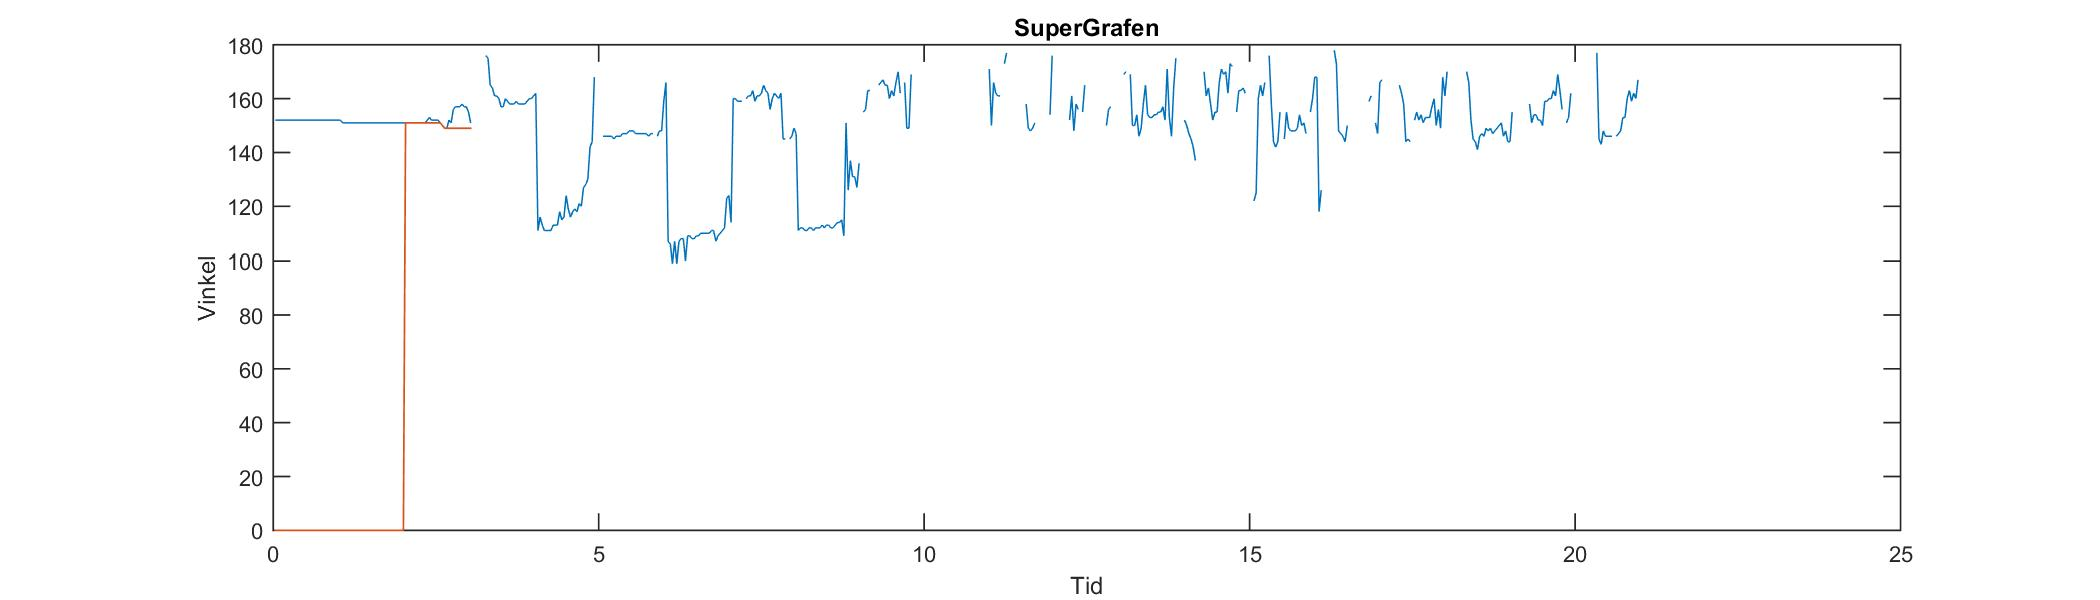
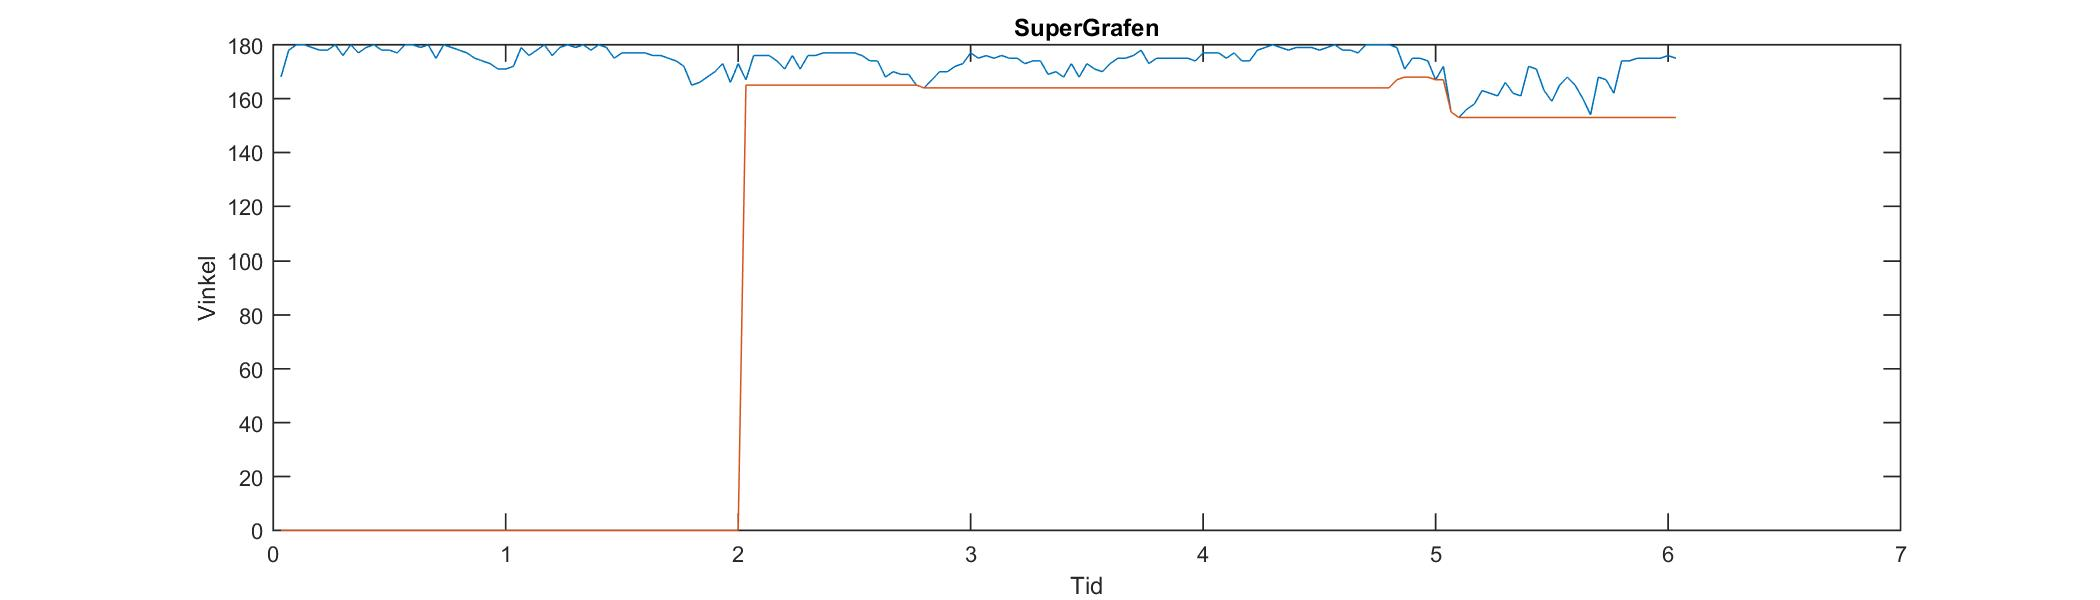
Förändringar i hastigheten

diff --git a/RoadRunners/SkeletonBasics-WPF/MainWindow.xaml b/RoadRunners/SkeletonBasics-WPF/MainWindow.xaml
@@ -27,7 +27,21 @@
         <Button x:Name="button1" Content="Start sensors" HorizontalAlignment="Left" Margin="867,77,0,0" VerticalAlignment="Top" Width="75" Click="start_button_Click"/>
         <Button x:Name="Show_mean_angle" Content="Show mean angle" HorizontalAlignment="Left" Margin="1009,77,0,0" VerticalAlignment="Top" Width="111" Click="Show_mean_angle_Click"/>
         <Image x:Name="vinkelImage" HorizontalAlignment="Left" Height="319" Margin="44,297,0,0" VerticalAlignment="Top" Width="1169" Source="Vinkelgraf.jpeg" />
-        <TextBlock x:Name="velocityText" HorizontalAlignment="Left" Margin="942,195,0,0" TextWrapping="Wrap" Text="TextBlock" VerticalAlignment="Top" Height="47" Width="100"/>
+        <TextBlock x:Name="velocityText" HorizontalAlignment="Left" Margin="942,195,0,0" TextWrapping="Wrap" VerticalAlignment="Top" Height="20" Width="87"><Run Text="Hastighet"/><InlineUIContainer>
+        		<TextBlock x:Name="textBlock" TextWrapping="Wrap"/>
+        	</InlineUIContainer><LineBreak/></TextBlock>
+        <TextBlock x:Name="countertext" HorizontalAlignment="Left" Margin="1091,195,0,0" TextWrapping="Wrap" VerticalAlignment="Top" Height="20"><Run Text="Counter"/><LineBreak/><Run/></TextBlock>
+        <TextBlock x:Name="velXListtext" HorizontalAlignment="Left" Margin="1091,256,0,0" TextWrapping="Wrap" VerticalAlignment="Top" Width="64" Height="19"><Run Text="velXList"/><LineBreak/><Run/><LineBreak/><Run/></TextBlock>
+        <TextBlock x:Name="steptimetext" HorizontalAlignment="Left" Margin="1091,158,0,0" TextWrapping="Wrap" VerticalAlignment="Top"><Run Text="stepTime"/><LineBreak/><Run/></TextBlock>
+        <TextBlock x:Name="initX" HorizontalAlignment="Left" Margin="942,259,0,0" TextWrapping="Wrap" VerticalAlignment="Top"><Run Text="init"/><Run Text="X"/></TextBlock>
+        <TextBlock x:Name="textBlock1" HorizontalAlignment="Left" Margin="942,179,0,0" TextWrapping="Wrap" Text="Hastigheten" VerticalAlignment="Top"/>
+        <TextBlock x:Name="textBlock1_Copy" HorizontalAlignment="Left" Margin="942,243,0,0" TextWrapping="Wrap" VerticalAlignment="Top"><Run Text="Initiala x-koord"/><LineBreak/><Run/></TextBlock>
+        <TextBlock x:Name="textBlock1_Copy1" HorizontalAlignment="Left" Margin="1091,240,0,0" TextWrapping="Wrap" VerticalAlignment="Top"><Run Text="Storlek x-koord. lista"/><LineBreak/><Run/></TextBlock>
+        <TextBlock x:Name="textBlock1_Copy2" HorizontalAlignment="Left" Margin="1091,179,0,0" TextWrapping="Wrap" VerticalAlignment="Top"><Run Text="Counter"/><LineBreak/><Run/></TextBlock>
+        <TextBlock x:Name="textBlock1_Copy3" HorizontalAlignment="Left" Margin="1091,142,0,0" TextWrapping="Wrap" VerticalAlignment="Top"><Run Text="Tiden för ett steg"/><LineBreak/><Run/></TextBlock>
+        <TextBlock x:Name="velhelptext" HorizontalAlignment="Left" Margin="942,158,0,0" TextWrapping="Wrap" VerticalAlignment="Top" Height="21"><Run Text="VelHelp"/><LineBreak/><Run/></TextBlock>
+        <TextBlock x:Name="textBlock2" HorizontalAlignment="Left" Margin="942,142,0,0" TextWrapping="Wrap" VerticalAlignment="Top"><Run Text=""/><LineBreak/><Run/></TextBlock>
+        <TextBlock x:Name="hastighetslista" HorizontalAlignment="Left" Margin="942,137,0,0" TextWrapping="Wrap" VerticalAlignment="Top" Height="21"><Run Text="Hastighetslista"/><LineBreak/><Run/></TextBlock>
 
     </Grid>
 </Window>

diff --git a/RoadRunners/SkeletonBasics-WPF/MainWindow.xaml.cs b/RoadRunners/SkeletonBasics-WPF/MainWindow.xaml.cs
@@ -202,7 +202,9 @@ namespace Microsoft.Samples.Kinect.SkeletonBasics
 
                         if (skel.TrackingState == SkeletonTrackingState.Tracked)
                         {
-                            this.DrawBonesAndJoints(skel, dc);
+                            //this.DrawBonesAndJoints(skel, dc);
+                            Console.WriteLine("Innan calcvelocity");
+                            this.CalculateVelocity(skel, dc);
                             Console.WriteLine("HEJ");
                         }
                         else if (skel.TrackingState == SkeletonTrackingState.PositionOnly)
@@ -353,13 +355,13 @@ namespace Microsoft.Samples.Kinect.SkeletonBasics
         List<double> velHelpList = new List<double>();
         List<double> velocityList = new List<double>();
 
+        int count1 = 0;
+
         // Beräkna hastigheten 
         // Håll listan till 600 värden
         // När jag hittar vändpunkt så tömmer jag listan 
-        private void CalculateVelocity(Skeleton skeleton)
+        private void CalculateVelocity(Skeleton skeleton, DrawingContext drawingContext)
         {
-            Console.WriteLine("HEAEJFOANVEA");
-
             //Koordinater för fot
             Joint footLeft = skeleton.Joints[JointType.FootLeft];
             float XFootleft;
@@ -367,62 +369,90 @@ namespace Microsoft.Samples.Kinect.SkeletonBasics
             XFootleft = footLeft.Position.X;
             YFootleft = footLeft.Position.Y;
 
-            Console.WriteLine(velXList.Count());
+            ++count1;
+            if (count1 == 600)
+            {
+                count1 = 0;
+            }
 
             //Lägger till x-koordinater i listan
             if (velXList.Count > 10)
+            {
+                velXList.Add(XFootleft);
+
+                if (velXList.Count < 399)
                 {
-                   Console.WriteLine("HEAEJFOANVEA");
-                   if (velXList.Count < 399)
-                   {
-                       velXList.Add(XFootleft);
 
-                // Kollar om ett värde är en topp genom att jämföra ett värden före sig och ett värde efter sig
-                if (((velXList[velXList.Count - 5] < (velXList[velXList.Count - 4] + velXList[velXList.Count - 3] + velXList[velXList.Count - 2] + velXList[velXList.Count - 1] / 4))
-                    &&
-                    (velXList[velXList.Count - 5] < (velXList[velXList.Count - 6] + velXList[velXList.Count - 7] + velXList[velXList.Count - 8] + velXList[velXList.Count - 9] / 4)))
-                    ||
-                   ((velXList[velXList.Count - 5] > (velXList[velXList.Count - 4] + velXList[velXList.Count - 3] + velXList[velXList.Count - 2] + velXList[velXList.Count - 1] / 4))
-                    &&
-                    (velXList[velXList.Count - 5] > (velXList[velXList.Count - 6] + velXList[velXList.Count - 7] + velXList[velXList.Count - 8] + velXList[velXList.Count - 9] / 4))))
-                {
-                    // Deltatid
-                    stepTime = velHelpList.Count / 30;
-                    stepVelocity = sumStep / stepTime;
-                    Console.WriteLine("HEAEJFOANVEA");
+                    // Kollar om ett värde är en topp genom att jämföra ett värden före sig och ett värde efter sig
+                    if (((velXList[velXList.Count - 5] < ((velXList[velXList.Count - 4] + velXList[velXList.Count - 3] + velXList[velXList.Count - 2] + velXList[velXList.Count - 1]) / 4))
+                        &&
+                        (velXList[velXList.Count - 5] < ((velXList[velXList.Count - 6] + velXList[velXList.Count - 7] + velXList[velXList.Count - 8] + velXList[velXList.Count - 9]) / 4)))
+                        ||
+                       ((velXList[velXList.Count - 5] > ((velXList[velXList.Count - 4] + velXList[velXList.Count - 3] + velXList[velXList.Count - 2] + velXList[velXList.Count - 1]) / 4))
+                        &&
+                        (velXList[velXList.Count - 5] > ((velXList[velXList.Count - 6] + velXList[velXList.Count - 7] + velXList[velXList.Count - 8] + velXList[velXList.Count - 9]) / 4))))
+                    {
+                        //Counterräknare
+                        countertext.Text = Convert.ToString(count1);
 
-                    // Hastighetslista
-                    velocityList.Add(stepVelocity);
-                    meanHelpVelocity = meanHelpVelocity + stepVelocity;
-                    meanVelocity = velocityList.Count / meanHelpVelocity;
+                        velHelpList.Add(velXList[velXList.Count - 5]);
 
-                    // Skriver ut hastigheten i fönstret
-                    velocityText.Text = meanVelocity.ToString();
+                        //Vilken x-koordinat som sparas
+                        initX.Text = Convert.ToString(velXList[velXList.Count - 5]);
 
-                    // Rensar listan
-                    velXList.Clear();
-                    velHelpList.Clear();
+                        velhelptext.Text = Convert.ToString(velHelpList.Count);
+
+                        //Beräknar delta-x
+                        sumStep = sumStep + Math.Abs(Math.Abs(velXList[velXList.Count - 5]) - Math.Abs(velXList[velXList.Count - 6]));
+
+                        // Delta-tid
+                        stepTime = velHelpList.Count / 30;
+
+                        steptimetext.Text = Convert.ToString(stepTime);
+
+                        // Steghastighet
+                        stepVelocity = sumStep / stepTime;
+
+                        // Hastighetslista
+                        velocityList.Add(stepVelocity);
+                        hastighetslista.Text = Convert.ToString(velocityList.Count);
+                        meanHelpVelocity = meanHelpVelocity + stepVelocity;
+                        meanVelocity = velocityList.Count / meanHelpVelocity;
+
+                        // Skriver ut hastigheten i fönstret
+                        velocityText.Text = Convert.ToString(meanVelocity);
+
+                        // Rensar listorna
+                        //velXList.Clear();
+                        velHelpList.Clear();
+                    }
+                    else
+                    {
+                        // Lägger till värdet i en lista för att senare kunna räkna ut tiden
+                        // Samt summerar längden av varje delta-x
+                        velHelpList.Add(velXList.Count - 5);
+                        sumStep = sumStep + Math.Abs(Math.Abs(velXList[velXList.Count - 5]) - Math.Abs(velXList[velXList.Count - 6]));
+                    }
                 }
+
                 else
                 {
-                    velHelpList.Add(velXList.Count - 5);
-                    sumStep = sumStep + velXList[velXList.Count - 5];
+                    // Tar bort första sista talet i velXlist, samt adderar en ny x-koordinat
+                    velXList.RemoveAt(0);
                 }
-
             }
             else
             {
-                velXList.RemoveAt(0);
+                velXListtext.Text = Convert.ToString(velXList.Count);
                 velXList.Add(XFootleft);
-                Console.WriteLine("HEAEJFOANVEA");
             }
 
             if (velocityList.Count > 100)
-                {
-                    velocityList.RemoveAt(0); 
-                }
+            {
+                velocityList.RemoveAt(0);
             }
         }
+
 
 
 
@@ -437,10 +467,17 @@ namespace Microsoft.Samples.Kinect.SkeletonBasics
       hastXLista[hastXLista.Count - 3] > hastXLista[hastXLista.Count - 4] &&
       hastXLista[hastXLista.Count - 4] > hastXLista[hastXLista.Count - 5]))
     */
-    
+        int count = 0;
 
         private void DrawBonesAndJoints(Skeleton skeleton, DrawingContext drawingContext)
         {
+            ++count;
+            if (count == 600)
+            {
+                count = 0;
+            }
+
+            velocityText.Text = Convert.ToString(count);
 
             //joints
             Joint footLeft = skeleton.Joints[JointType.FootLeft];
@@ -470,70 +507,68 @@ namespace Microsoft.Samples.Kinect.SkeletonBasics
 
             // SHK
             XShoulderleft = shoulderLeft.Position.X;
-            YShoulderleft = shoulderLeft.Position.Y; 
-            
+            YShoulderleft = shoulderLeft.Position.Y;
+
             //vektorlängder
-            double HipKnee_Length = Math.Sqrt(Math.Pow(XHipleft - XKneeleft, 2) + Math.Pow(YHipleft - YKneeleft, 2));
-            double HipFoot_Length = Math.Sqrt(Math.Pow(XHipleft - XFootleft, 2) + Math.Pow(YHipleft - YFootleft, 2));
-            double KneeFoot_Length = Math.Sqrt(Math.Pow(XKneeleft - XFootleft, 2) + Math.Pow(YKneeleft - YFootleft, 2));
+                   double HipKnee_Length = Math.Sqrt(Math.Pow(XHipleft - XKneeleft, 2) + Math.Pow(YHipleft - YKneeleft, 2));
+                   double HipFoot_Length = Math.Sqrt(Math.Pow(XHipleft - XFootleft, 2) + Math.Pow(YHipleft - YFootleft, 2));
+                   double KneeFoot_Length = Math.Sqrt(Math.Pow(XKneeleft - XFootleft, 2) + Math.Pow(YKneeleft - YFootleft, 2));
 
-            //Vektorlängder till knä-höft-axel
-            double HipShoulder_Length = Math.Sqrt(Math.Pow(XHipleft - XShoulderleft, 2) + Math.Pow(YHipleft - YShoulderleft, 2));
-            double KneeShoulder_Length = Math.Sqrt(Math.Pow(XKneeleft - XShoulderleft, 2) + Math.Pow(YKneeleft - YShoulderleft, 2));
+                   //Vektorlängder till knä-höft-axel
+                   double HipShoulder_Length = Math.Sqrt(Math.Pow(XHipleft - XShoulderleft, 2) + Math.Pow(YHipleft - YShoulderleft, 2));
+                   double KneeShoulder_Length = Math.Sqrt(Math.Pow(XKneeleft - XShoulderleft, 2) + Math.Pow(YKneeleft - YShoulderleft, 2));
 
-            //FHK - cosinussatsen för vinkel Höft-knä-fot, avrundar till heltal
-            double HKF_angle = Math.Ceiling((Math.Acos((Math.Pow(HipKnee_Length, 2) + Math.Pow(KneeFoot_Length, 2)
-                - Math.Pow(HipFoot_Length, 2)) / (2 * HipKnee_Length * KneeFoot_Length))) * (180 / Math.PI));
+                   //FHK - cosinussatsen för vinkel Höft-knä-fot, avrundar till heltal
+                   double HKF_angle = Math.Ceiling((Math.Acos((Math.Pow(HipKnee_Length, 2) + Math.Pow(KneeFoot_Length, 2)
+                       - Math.Pow(HipFoot_Length, 2)) / (2 * HipKnee_Length * KneeFoot_Length))) * (180 / Math.PI));
 
-            //SHK - Cosinussatsen för vinkel Höft-knä-fot, avrundar till heltal
-            double SHK_angle = Math.Ceiling((Math.Acos((Math.Pow(HipKnee_Length, 2) + Math.Pow(HipShoulder_Length, 2)
-                - Math.Pow(KneeShoulder_Length, 2)) / (2 * HipKnee_Length * KneeFoot_Length))) * (180 / Math.PI));
+                   //SHK - Cosinussatsen för vinkel Höft-knä-fot, avrundar till heltal
+                   double SHK_angle = Math.Ceiling((Math.Acos((Math.Pow(HipKnee_Length, 2) + Math.Pow(HipShoulder_Length, 2)
+                       - Math.Pow(KneeShoulder_Length, 2)) / (2 * HipKnee_Length * KneeFoot_Length))) * (180 / Math.PI));
 
-            //Adderar vinkel till listan
-            vinklar.Add(SHK_angle);
-            sampleToTime = vinklar.Count;
-            tidsLista.Add(sampleToTime / 30);
-            minimumlistahelp.Add(SHK_angle);
-            
+                   //Adderar vinkel till listan
+                   vinklar.Add(HKF_angle);
+                   sampleToTime = vinklar.Count;
+                   tidsLista.Add(sampleToTime / 30);
+                   minimumlistahelp.Add(HKF_angle);
 
-            // tar ut lägsta vinkel
-            if (minimumlistahelp.Count > 60)
-            {  
-                lagsta_varde = minimumlistahelp.Min();
-                minimumlista.Add(lagsta_varde);
-                minimumlistahelp.RemoveAt(0);
-            }
-            else
-            {
-                minimumlista.Add(lagsta_varde);
-            }
-          
-                //MATLABPLOT
-                //Skickar data till matlab i ett specifikt satt intervall
-                if (updateMatlab < vinklar.Count)
-                {
-                    // Change to the directory where the function is located 
-                    var path = Path.Combine(Directory.GetCurrentDirectory());
-                    matlab.Execute(@"cd " + path + @"\..\..");
 
-                    // Define the output 
-                    object result = null;
+                   // tar ut lägsta vinkel
+                   if (minimumlistahelp.Count > 60)
+                   {  
+                       lagsta_varde = minimumlistahelp.Min();
+                       minimumlista.Add(lagsta_varde);
+                       minimumlistahelp.RemoveAt(0);
+                   }
+                   else
+                   {
+                       minimumlista.Add(lagsta_varde);
+                   }
 
-                    // Call the MATLAB function myfunc! Kastar även eventuella runtimefel
-                    try
-                    {
-                        CompositionTargetRendering();
-                        matlab.Feval("myfunc", 1, out result, tidsLista.ToArray(), vinklar.ToArray(), minimumlista.ToArray());
+                       //MATLABPLOT
+                       //Skickar data till matlab i ett specifikt satt intervall
+                       if (updateMatlab < vinklar.Count)
+                       {
+                           // Change to the directory where the function is located 
+                           var path = Path.Combine(Directory.GetCurrentDirectory());
+                           matlab.Execute(@"cd " + path + @"\..\..");
 
-                    }
-                    catch (System.Runtime.InteropServices.COMException)
-                    {
+                           // Define the output 
+                           object result = null;
 
-                    }
-                    updateMatlab = updateMatlab + 30;
-                }
+                           // Call the MATLAB function myfunc! Kastar även eventuella runtimefel
+                           try
+                           {
+                               CompositionTargetRendering();
+                               matlab.Feval("myfunc", 1, out result, tidsLista.ToArray(), vinklar.ToArray(), minimumlista.ToArray());
 
-         
+                           }
+                           catch (System.Runtime.InteropServices.COMException)
+                           {
+
+                           }
+                           updateMatlab = updateMatlab + 30;
+                       }
 
             // Render Torso
             this.DrawBone(skeleton, drawingContext, JointType.Head, JointType.ShoulderCenter);
@@ -584,7 +619,7 @@ namespace Microsoft.Samples.Kinect.SkeletonBasics
                 }
             }
         }
-
+       
         /// <summary>
         /// Maps a SkeletonPoint to lie within our render space and converts to Point
         /// </summary>
